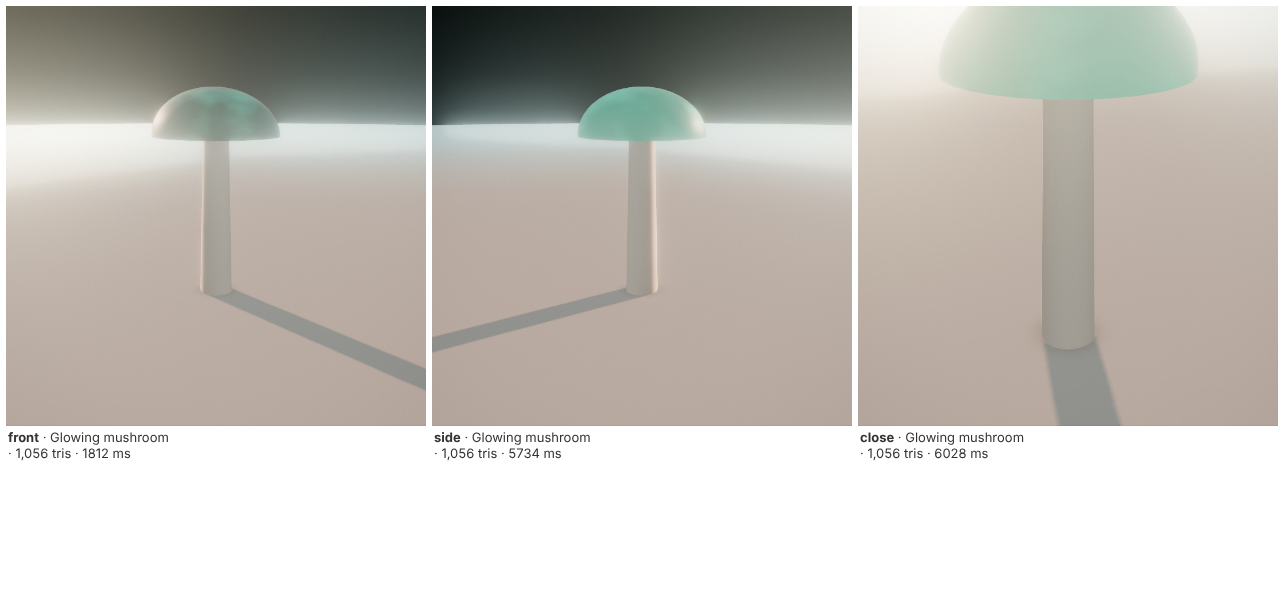
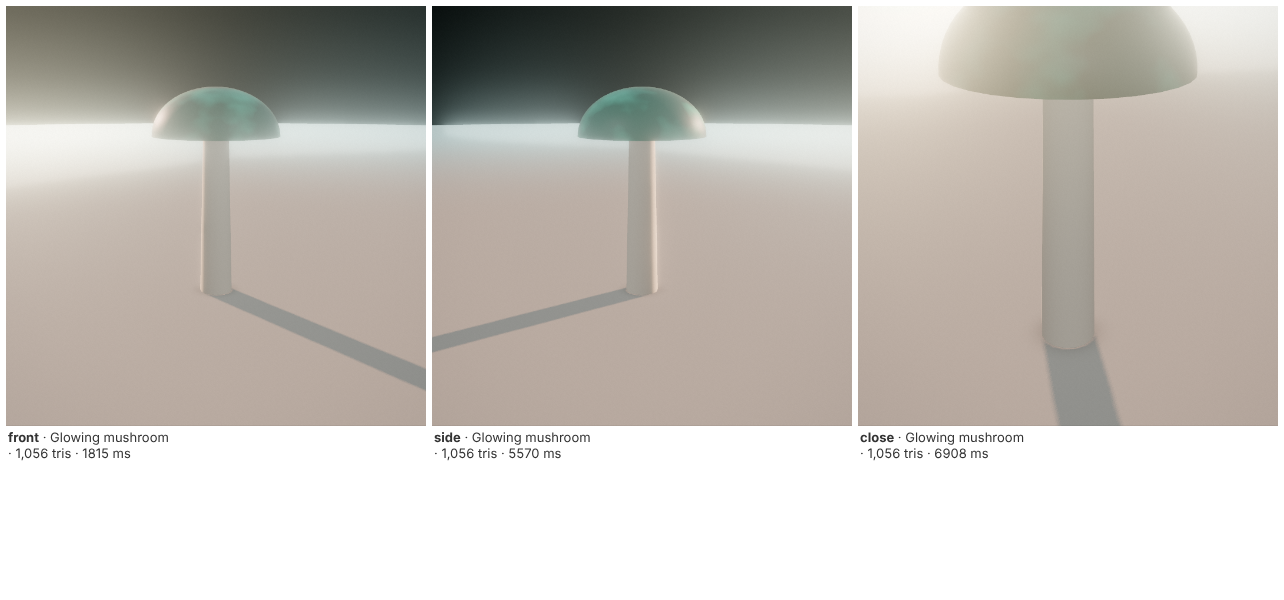
a5faafad c5: head's screenshots again, on engine 7 with the world's wind
Intent: a5faafad-bcda-4a7a-9b62-ec2637e32ae9

Claude-Session: https://claude.ai/code/session_01E9zxn4othdq7vGAZqBLPVw

Changed region(s): [[0.7477, 0.0, 0.9346, 0.18], [0.4361, 0.15, 0.5607, 0.24], [0.405, 0.75, 0.4361, 0.78]]

diff --git a/intent-work/a5faafad-render/README.md b/intent-work/a5faafad-render/README.md
@@ -2,11 +2,11 @@
 
 The test asset `play/site/src/lib/content/assets/box/fixtures/glow-mushroom.js` (a cap whose look is its own node graph:
 teal, mottled by `fbm`, its glow pulsing, its top swaying with the wind), main against head
-(`intent/a5faafad-recipe-shaders` @ a6a12f39f), by `play/site/scripts/render.mjs` in avenBOX's Chromium (SwiftShader):
+(`intent/a5faafad-recipe-shaders` @ 8796d65db, engine 7; main @ 12837b65e), by `play/site/scripts/render.mjs` in avenBOX's Chromium (SwiftShader):
 
 - `*-viewer.png` — the render bench (`/render`: the asset box, the viewer's studio), front, side, close.
 - `*-world.png` — five of it standing in `world.js` on the world bench (`/worlds/bench/`, the renderer every world
   draws its guests with), close at about 3, 8 and 15 s of the world's time, and wide.
 
-Main (engine 5) draws the cap flat teal: its graph is dropped without a word. Head (engine 6) draws its graph the same
+Main draws the cap flat teal: its graph is dropped without a word. Head (engine 7, its wind the world's own) draws its graph the same
 in the viewer and in the world: mottled teal whose glow pulses between shots.
